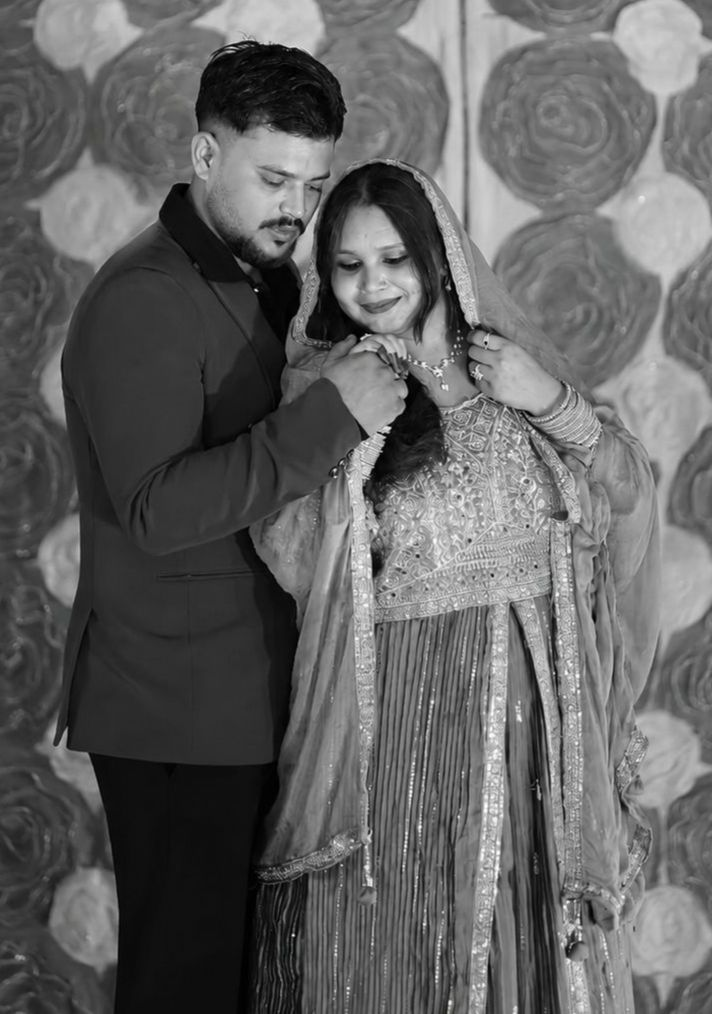
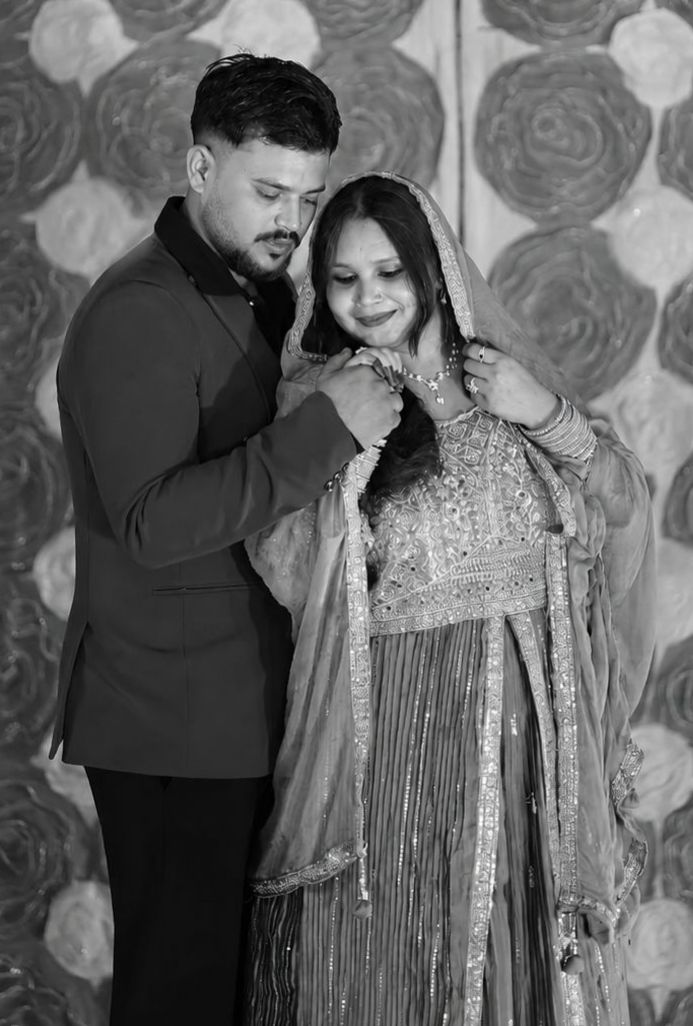
style: update hero background image to use 35% object-position and replace asset

diff --git a/src/app/globals.css b/src/app/globals.css
@@ -179,7 +179,6 @@ body {
   overflow: hidden;
 }
 
-.hero-bg-image,
 .hero-bg-video {
   position: absolute;
   inset: 0;
@@ -187,6 +186,15 @@ body {
   height: 100%;
   object-fit: cover;
   object-position: center;
+}
+
+.hero-bg-image {
+  position: absolute;
+  inset: 0;
+  width: 100%;
+  height: 100%;
+  object-fit: cover;
+  object-position: 35%;
 }
 
 .hero-bg-video {
